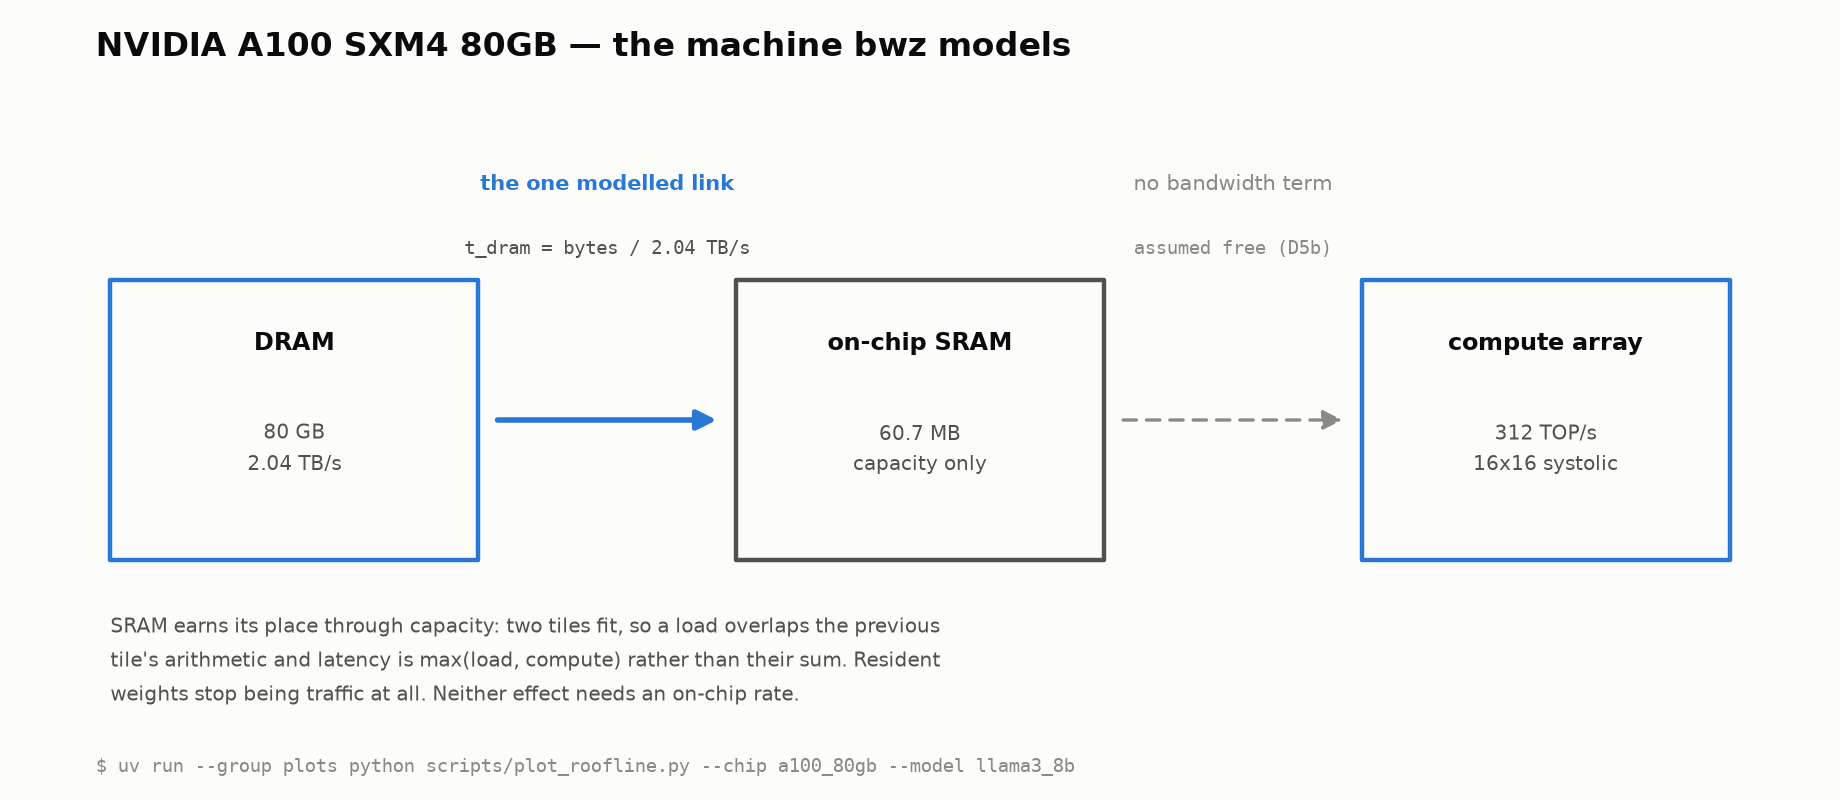
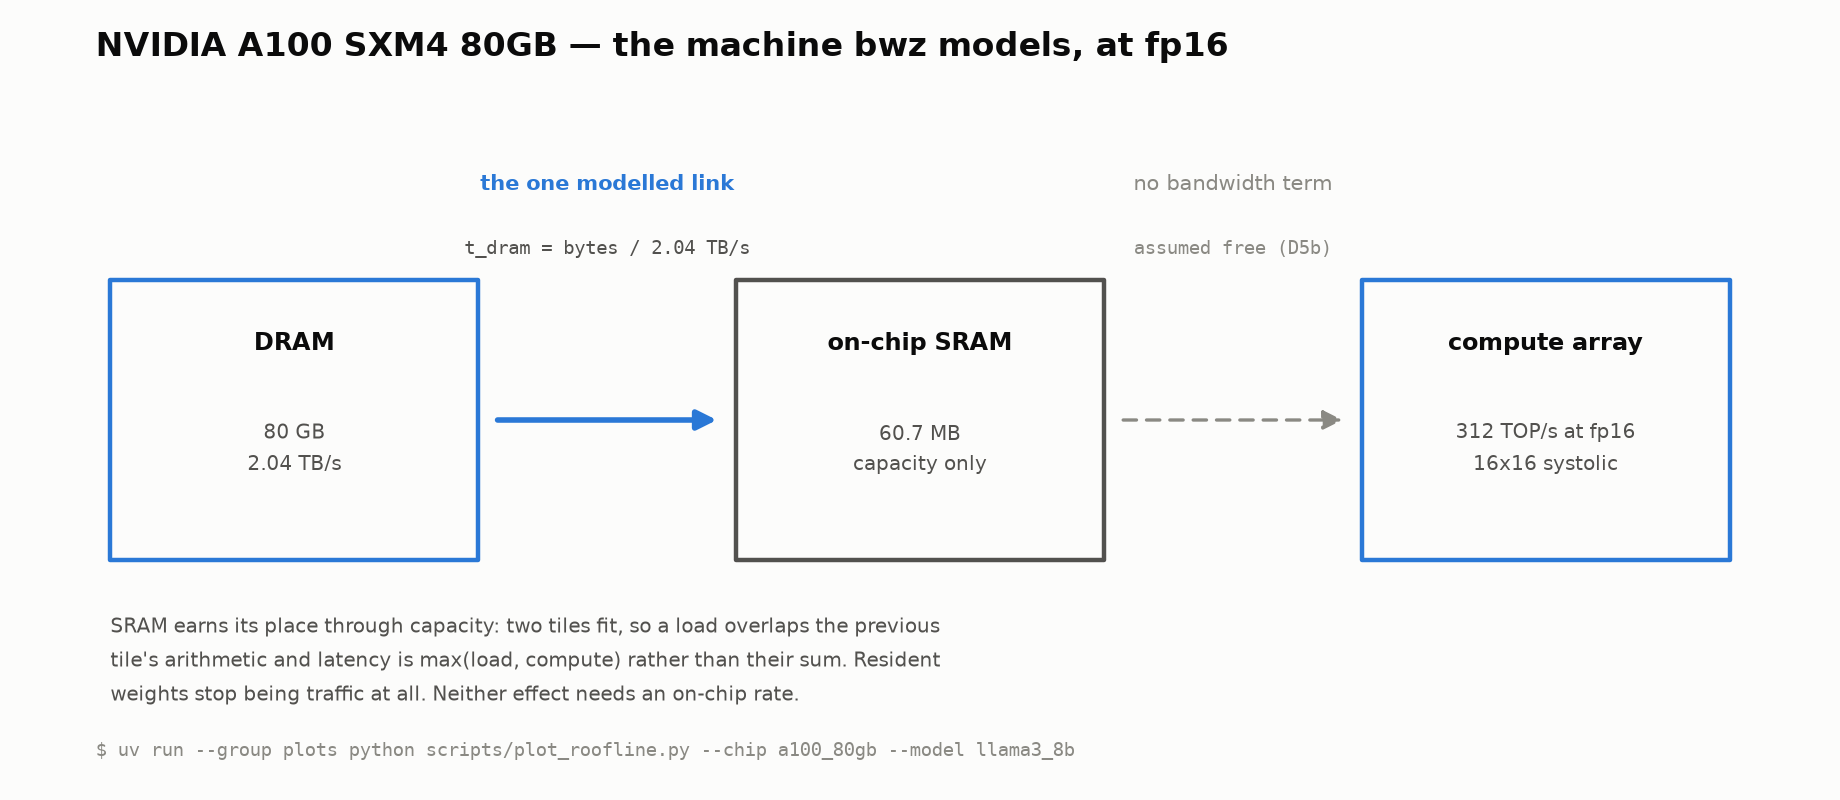
fix(cli,plots): name the dtype the arithmetic actually runs at
Neither the `bwz gemm` table nor the pipeline figure said what precision the
numbers were for -- and for a GEMM that is most of the answer: the same shape
is 2 TOP at fp16 and the same 2 TOP at int8, but the ceiling doubles and the
weight bytes halve.

- `bwz gemm` titles the table with the precision (`at fp16`, or `at w:int8
  a:fp16` when they differ) and adds an `arithmetic dtype` row naming the
  governing dtype, the unit and its peak.
- That dtype is now resolved with `compute_dtype()` rather than read off
  `--weights`, matching what `analyze()` does. Reading `--weights` quoted a
  ridge point from a rate the chip may have no unit for; `bwz run` had the same
  slip in its suggestions path.
- The DRAM-traffic derivation spells out the element sizes it counted.
- The pipeline figure states the precision in the title and on the compute box,
  and wraps its command footer like the roofline does.

Golden: W8A16 on A100 runs at the int8 rate, so t_compute is exactly half the
fp16 figure while activations still move 2 bytes each.

Changed region(s): [[0.062, 0.9062, 0.5886, 0.9688], [0.5886, 0.0312, 0.6815, 0.0938], [0.8054, 0.5312, 0.8984, 0.5625]]

diff --git a/backend/bwz/cli.py b/backend/bwz/cli.py
@@ -14,6 +14,7 @@ from rich.table import Table
 import bwz
 from bwz.analysis import analyze, idealised, machine_model, rank_operations, suggestions
 from bwz.analysis.compare import head_to_head, prefill_crossover
+from bwz.analysis.roofline import compute_dtype
 from bwz.report import Bound, Report
 from bwz.spec import (
     CNNSpec,
@@ -23,6 +24,7 @@ from bwz.spec import (
     HardwareSpec,
     SpecLoadError,
     TransformerSpec,
+    bytes_per_element,
     iter_chips,
     iter_models,
     load_chip,
@@ -291,7 +293,8 @@ def run(
         flag = " [yellow](rests on an estimated input)[/yellow]" if margin.rests_on_estimate else ""
         console.print(f"  • {margin.description}{flag}")
     for phase_result in report.phases:
-        for hint in suggestions(phase_result, machine_model(_chip_for(chip, ideal), weights)):
+        governing = compute_dtype(_chip_for(chip, ideal), weights, weights)
+        for hint in suggestions(phase_result, machine_model(_chip_for(chip, ideal), governing)):
             console.print(f"  → {hint}")
 
     if show_ops:
@@ -368,20 +371,44 @@ def gemm(
             console.print(f"  • {reason}")
         raise typer.Exit(code=2)
 
-    machine = machine_model(_chip_for(chip, ideal), weights)
+    resolved = _chip_for(chip, ideal)
+    # The dtype whose peak rate governs, resolved exactly as analyze() resolves
+    # it: quantised inference runs the GEMM at the weight dtype when the chip has
+    # a unit for it, and falls back to the activation dtype otherwise. Reading
+    # `weights` here instead would quote a ridge point from a rate the chip
+    # cannot reach.
+    governing = compute_dtype(resolved, weights, a_dtype)
+    machine = machine_model(resolved, governing)
     summary = report.summary
     assert summary is not None
     op = report.phases[0].ops[0]
 
-    table = Table(title=f"{spec.name} on {report.meta.chip_name}", box=box.SIMPLE)
+    precision = f"{weights.value}" if a_dtype is weights else f"w:{weights.value} a:{a_dtype.value}"
+    table = Table(
+        title=f"{spec.name} at {precision} on {report.meta.chip_name}",
+        box=box.SIMPLE,
+    )
     table.add_column("quantity")
     table.add_column("value", justify="right")
     table.add_column("derivation")
     table.add_row("arithmetic", format_quantity(op.flops, "OP"), f"2 x {m} x {n} x {k}")
     table.add_row(
+        "arithmetic dtype",
+        governing.value,
+        (
+            f"{machine.unit.name} peak {format_quantity(machine.peak_flops_per_s, 'OP/s')}"
+            + (
+                ""
+                if governing is weights
+                else f" — {weights.value} has no unit on this chip, so the activation dtype governs"
+            )
+        ),
+    )
+    table.add_row(
         "DRAM traffic",
         format_bytes(op.dram_bytes),
-        f"weights {format_bytes(op.weight_bytes)} + activations, less what stays on chip",
+        f"weights {k}x{n}x{bytes_per_element(weights):g} B = {format_bytes(op.weight_bytes)}, "
+        f"plus activations at {bytes_per_element(a_dtype):g} B, less what stays on chip",
     )
     table.add_row(
         "intensity", f"{op.arithmetic_intensity:.1f} OP/byte", "arithmetic / compulsory traffic"

diff --git a/backend/scripts/plot_roofline.py b/backend/scripts/plot_roofline.py
@@ -434,14 +434,15 @@ def draw_pipeline(chip: HardwareSpec, dtype: DType, command: str, out: Path) -> 
         (
             6,
             "DRAM",
-            f"{format_bytes(chip.dram.capacity_bytes)}\n{format_bandwidth(chip.dram.bandwidth_bytes_per_s)}",
+            f"{format_bytes(chip.dram.capacity_bytes)}\n"
+            f"{format_bandwidth(chip.dram.bandwidth_bytes_per_s)}",
             DATASHEET,
         ),
         (40, "on-chip SRAM", f"{format_bytes(on_chip)}\ncapacity only", INK_SECONDARY),
         (
             74,
             "compute array",
-            f"{format_quantity(machine.peak_flops_per_s, 'OP/s')}\n"
+            f"{format_quantity(machine.peak_flops_per_s, 'OP/s')} at {dtype.value}\n"
             + (
                 f"{machine.unit.systolic_dims[0]}x{machine.unit.systolic_dims[1]} systolic"
                 if machine.unit.systolic_dims
@@ -534,12 +535,20 @@ def draw_pipeline(chip: HardwareSpec, dtype: DType, command: str, out: Path) -> 
     fig.text(
         0.052,
         0.93,
-        f"{chip.name} — the machine bwz models",
+        f"{chip.name} — the machine bwz models, at {dtype.value}",
         fontsize=15,
         fontweight="bold",
         color=INK,
     )
-    fig.text(0.052, 0.035, f"$ {command}", fontsize=8.5, color=INK_MUTED, family="monospace")
+    for offset, line in enumerate(_wrap_command(command)):
+        fig.text(
+            0.052,
+            0.055 - 0.038 * offset,
+            line,
+            fontsize=8.5,
+            color=INK_MUTED,
+            family="monospace",
+        )
 
     out.parent.mkdir(parents=True, exist_ok=True)
     fig.savefig(out, facecolor=SURFACE)

diff --git a/backend/tests/unit/test_gemm.py b/backend/tests/unit/test_gemm.py
@@ -115,6 +115,29 @@ def test_int8_is_never_slower_than_fp16() -> None:
     assert int8.latency_s <= fp16.latency_s
 
 
+def test_mixed_precision_runs_at_the_weight_dtype() -> None:
+    """W8A16: int8 weights, fp16 activations.
+
+    The GEMM runs at A100's int8 rate (624 TOP/s, twice fp16) because that is the
+    entire point of quantising, while the activations still move 2 bytes each.
+    Bytes and arithmetic therefore come from different dtypes, which is why
+    ``bwz gemm`` prints the governing dtype rather than echoing ``--weights``.
+    """
+    chip = idealised(load_chip("a100_80gb"))
+    deployment = DeploymentSpec.model_validate(
+        {
+            "batch": 1,
+            "input_tokens": 1,
+            "output_tokens": 1,
+            "precision": {"weights": "int8", "activations": "fp16", "kv_cache": "fp16"},
+        }
+    )
+    mixed = _only_op(analyze(_spec(4096, 4096, 4096), chip, deployment))
+    fp16 = _only_op(analyze(_spec(4096, 4096, 4096), chip, _deployment("fp16")))
+
+    assert mixed.t_compute_s == pytest.approx(fp16.t_compute_s / 2, rel=1e-6)
+
+
 def test_ideal_removes_only_the_deratings() -> None:
     """--ideal divides t_compute by 0.70 and t_dram by 0.85, and leaves the
     shape utilisation exactly where it was."""

diff --git a/README.md b/README.md
@@ -93,6 +93,7 @@ uv run bwz gemm --m 10000 --n 10000 --k 10000 --chip a100_80gb --ideal
 
 ```
   arithmetic                2 TOP    2 x 10000 x 10000 x 10000
+  arithmetic dtype          fp16     tensor_core peak 312 TOP/s
   intensity        3333.3 OP/byte    arithmetic / compulsory traffic
   ridge point       153.0 OP/byte    above it the chip is compute-bound
   shape utilisation        99.84%    systolic tail on a 16x16 array — geometry, not a derating
